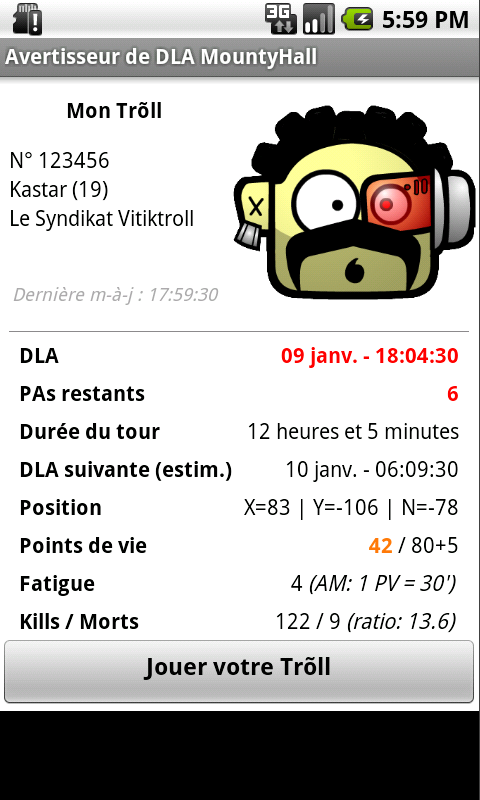
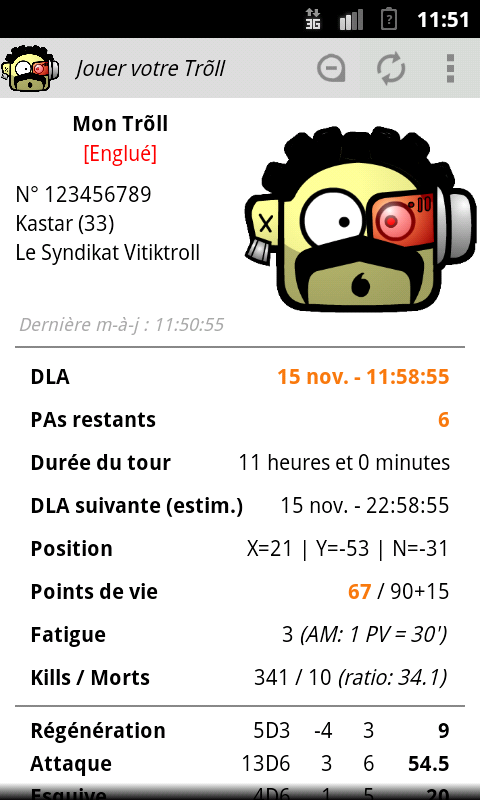
Prepare 0.12 release (screenshots)

diff --git a/src/org/zoumbox/mh_dla_notifier/sp/PublicScriptsProxyMock.java b/src/org/zoumbox/mh_dla_notifier/sp/PublicScriptsProxyMock.java
@@ -65,20 +65,20 @@ public class PublicScriptsProxyMock {
 //            "104259;7;72;-59;56;90;2;2013-04-10 04:14:25;13;4;21;5;4;10;1439;1095;0;12;0;0;0;0;0;585;-75;2;0;0;0;1;0";
 //            "104259;8;-29;-5;73;90;5;2013-08-05 11:17:25;13;4;23;5;4;14;1545;1305;0;0;0;0;0;0;0;585;-60;2;0;0;0;0;0";
 //            "104259;20;-52;-31;105;90;6;2013-08-19 21:47:25;13;4;24;5;4;14;1555;1314;0;0;0;0;0;0;0;585;-60;2;0;0;0;0;0";
-//            "104259;21;-53;-31;105;90;6;2013-08-21 00:02:25;13;4;24;5;4;14;1555;1315;0;3;0;0;0;0;0;585;-60;2;0;1;0;0;0";
-            "104259;28;-59;-69;105;100;0;2013-11-12 16:04:55;13;8;24;5;4;14;1705;1467;0;14;0;0;0;0;0;573;-60;3;0;0;0;0;0";
+            "123456789;21;-53;-31;67;90;6;2013-11-15 11:58:55;13;4;24;5;4;14;1555;1315;0;3;0;0;0;0;0;585;-60;2;0;1;0;0;0";
+//            "104259;28;-59;-69;105;67;0;2013-11-15 16:04:55;7;8;24;5;4;14;1705;1467;0;14;0;0;0;0;0;573;-60;3;0;0;0;0;0";
     public static final String DEVEL_PROFIL_PUBLIC2 =
 //            "123456;Mon Trõll;Kastar;19;2011-01-21 14:07:48;;http://zoumbox.org/mh/DevelZimZoumMH.png;17;122;9;1900;20;0";
 //            "104259;DevelZimZoum;Kastar;30;2011-01-21 14:07:48;;http://zoumbox.org/mh/DevelZimZoumMH.png;30;317;10;1900;20;0\n";
-            "104259;DevelZimZoum;Kastar;33;2011-01-21 14:07:48;;http://zoumbox.org/mh/DevelZimZoumMH.png;34;341;10;1900;20;0";
+            "123456789;Mon Trõll;Kastar;33;2011-01-21 14:07:48;;http://zoumbox.org/mh/DevelZimZoumMH.png;34;341;10;1900;20;0";
     public static final String DEVEL_CARACT =
             // Type; Attaque; Esquive; Dégats; Régénération; PVMax; PVActuels; Portée deVue; RM; MM; Armure; Duree du Tour; Poids; Concentration
-            "BMM;-6;-8; 9; 6; 15;  0; 3;1232; 647; 4;-120;  0;0\n" +
-            "BMP; 3; 1; 6;-4;  0;  0;-1;   0;   0;14;   0;108;0\n" +
-            "CAR;13; 8;24; 5;100;105; 4;1467;1705; 3; 573;  0;0";
-//            "BMM; 6;5; 9; 3;15;  0; 2;1103; 590; 4;-120;    0;0\n" +
-//            "BMP; 3;1; 6;-4; 0;  0;-1;   0;   0;14;   0;105.5;0\n" +
-//            "CAR;13;4;24; 5;90;100; 4;1314;1555; 2; 585;    0;0\n";
+//            "BMM;-6;-8; 9; 6; 15;  0; 3;1232; 647; 4;-120;  0;0\n" +
+//            "BMP; 3; 1; 6;-4;  0;  0;-1;   0;   0;14;   0;108;0\n" +
+//            "CAR;13; 8;24; 5;100;105; 4;1467;1705; 3; 573;  0;0";
+            "BMM; 6;5; 9; 3;15;  0; 2;1103; 590; 4;-120;    0;0\n" +
+            "BMP; 3;1; 6;-4; 0;  0;-1;   0;   0;14;   0;105.5;0\n" +
+            "CAR;13;4;24; 5;90; 67; 4;1314;1555; 2; 585;    0;0\n";
 //            "BMM;6;3;5; 4; 5; 0; 1;262;193;3;-130;  0; 0\n" +
 //            "BMP;1;2;4;-4; 0; 0;-1;  0;  0;6;   0;125;13\n" +
 //            "CAR;9;4;16;4;80;85; 4;486;510;1; 585;  0; 0\n";
